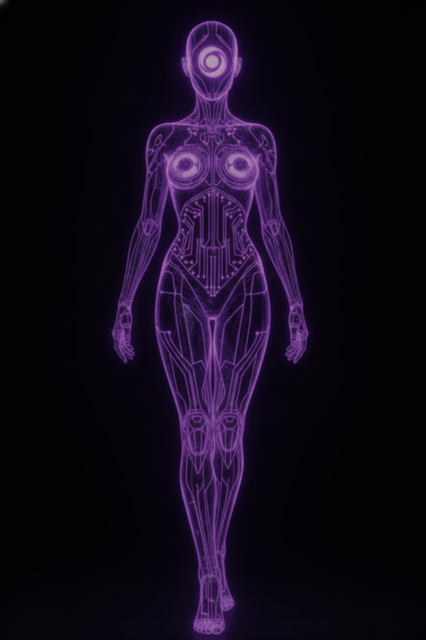
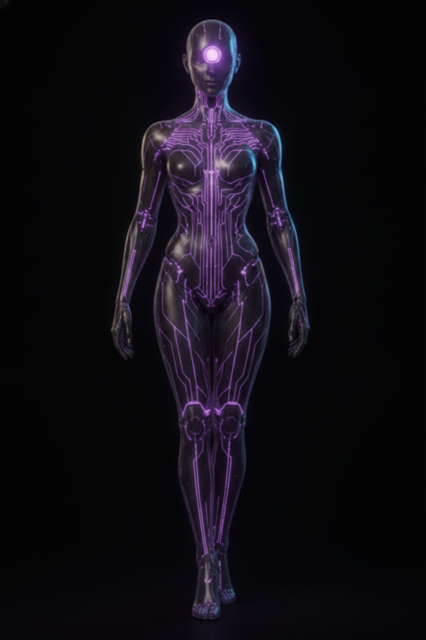
SYNAPSEN-KERN mittig über dem Gehirn; Vision & Gaia neu gerendert im Original-Stil (dunkle Glas-Androiden mit Circuit-Leuchtbahnen)

Changed region(s): [[0.2441, 0.0312, 0.7324, 1.0]]

diff --git a/oekosystem-gehirn.html b/oekosystem-gehirn.html
@@ -1213,7 +1213,7 @@ function drawBeaconLabel(bx,by,T){
   // place the label just under the core (fixed screen offset) to avoid overlap.
   const mobile = istMobil();
   // Desktop: Label ÜBER dem Gehirn; Portrait: knapp darunter (Dock belegt den Platz)
-  const lx  = mobile ? bx : bx + ts(60);
+  const lx  = bx;   // mittig über dem Gehirn
   const ly1 = mobile ? by + ts(120) : by - ts(245);
   const ly2 = mobile ? ly1 + 16 : ly1 + ts(15);
   ctx.save();
